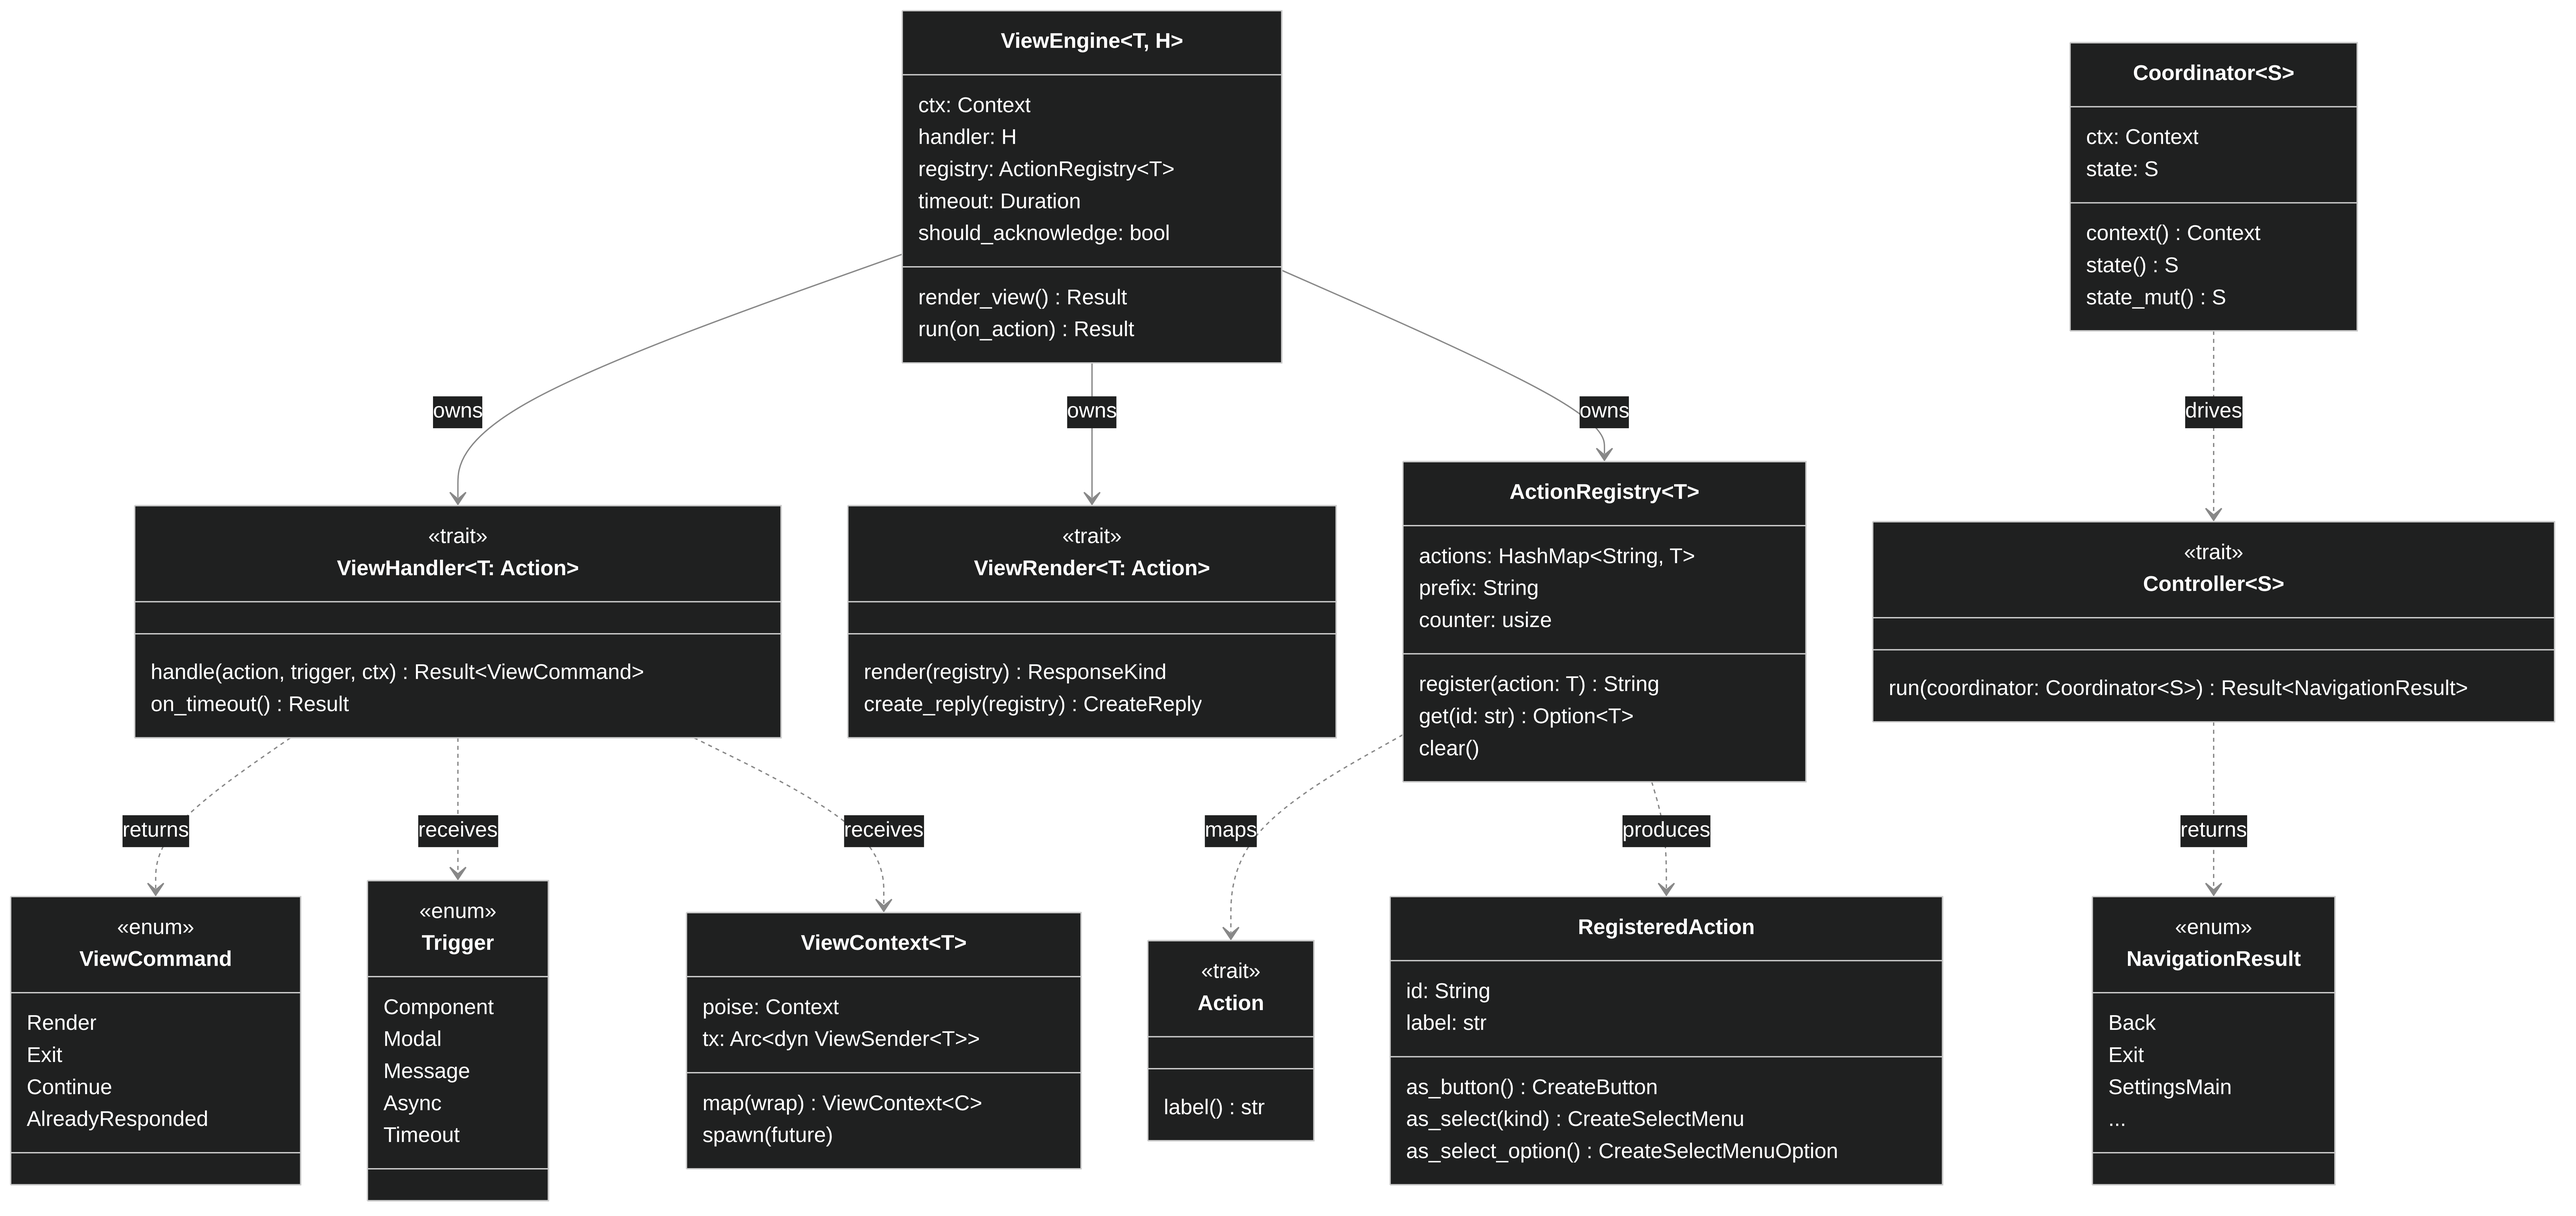
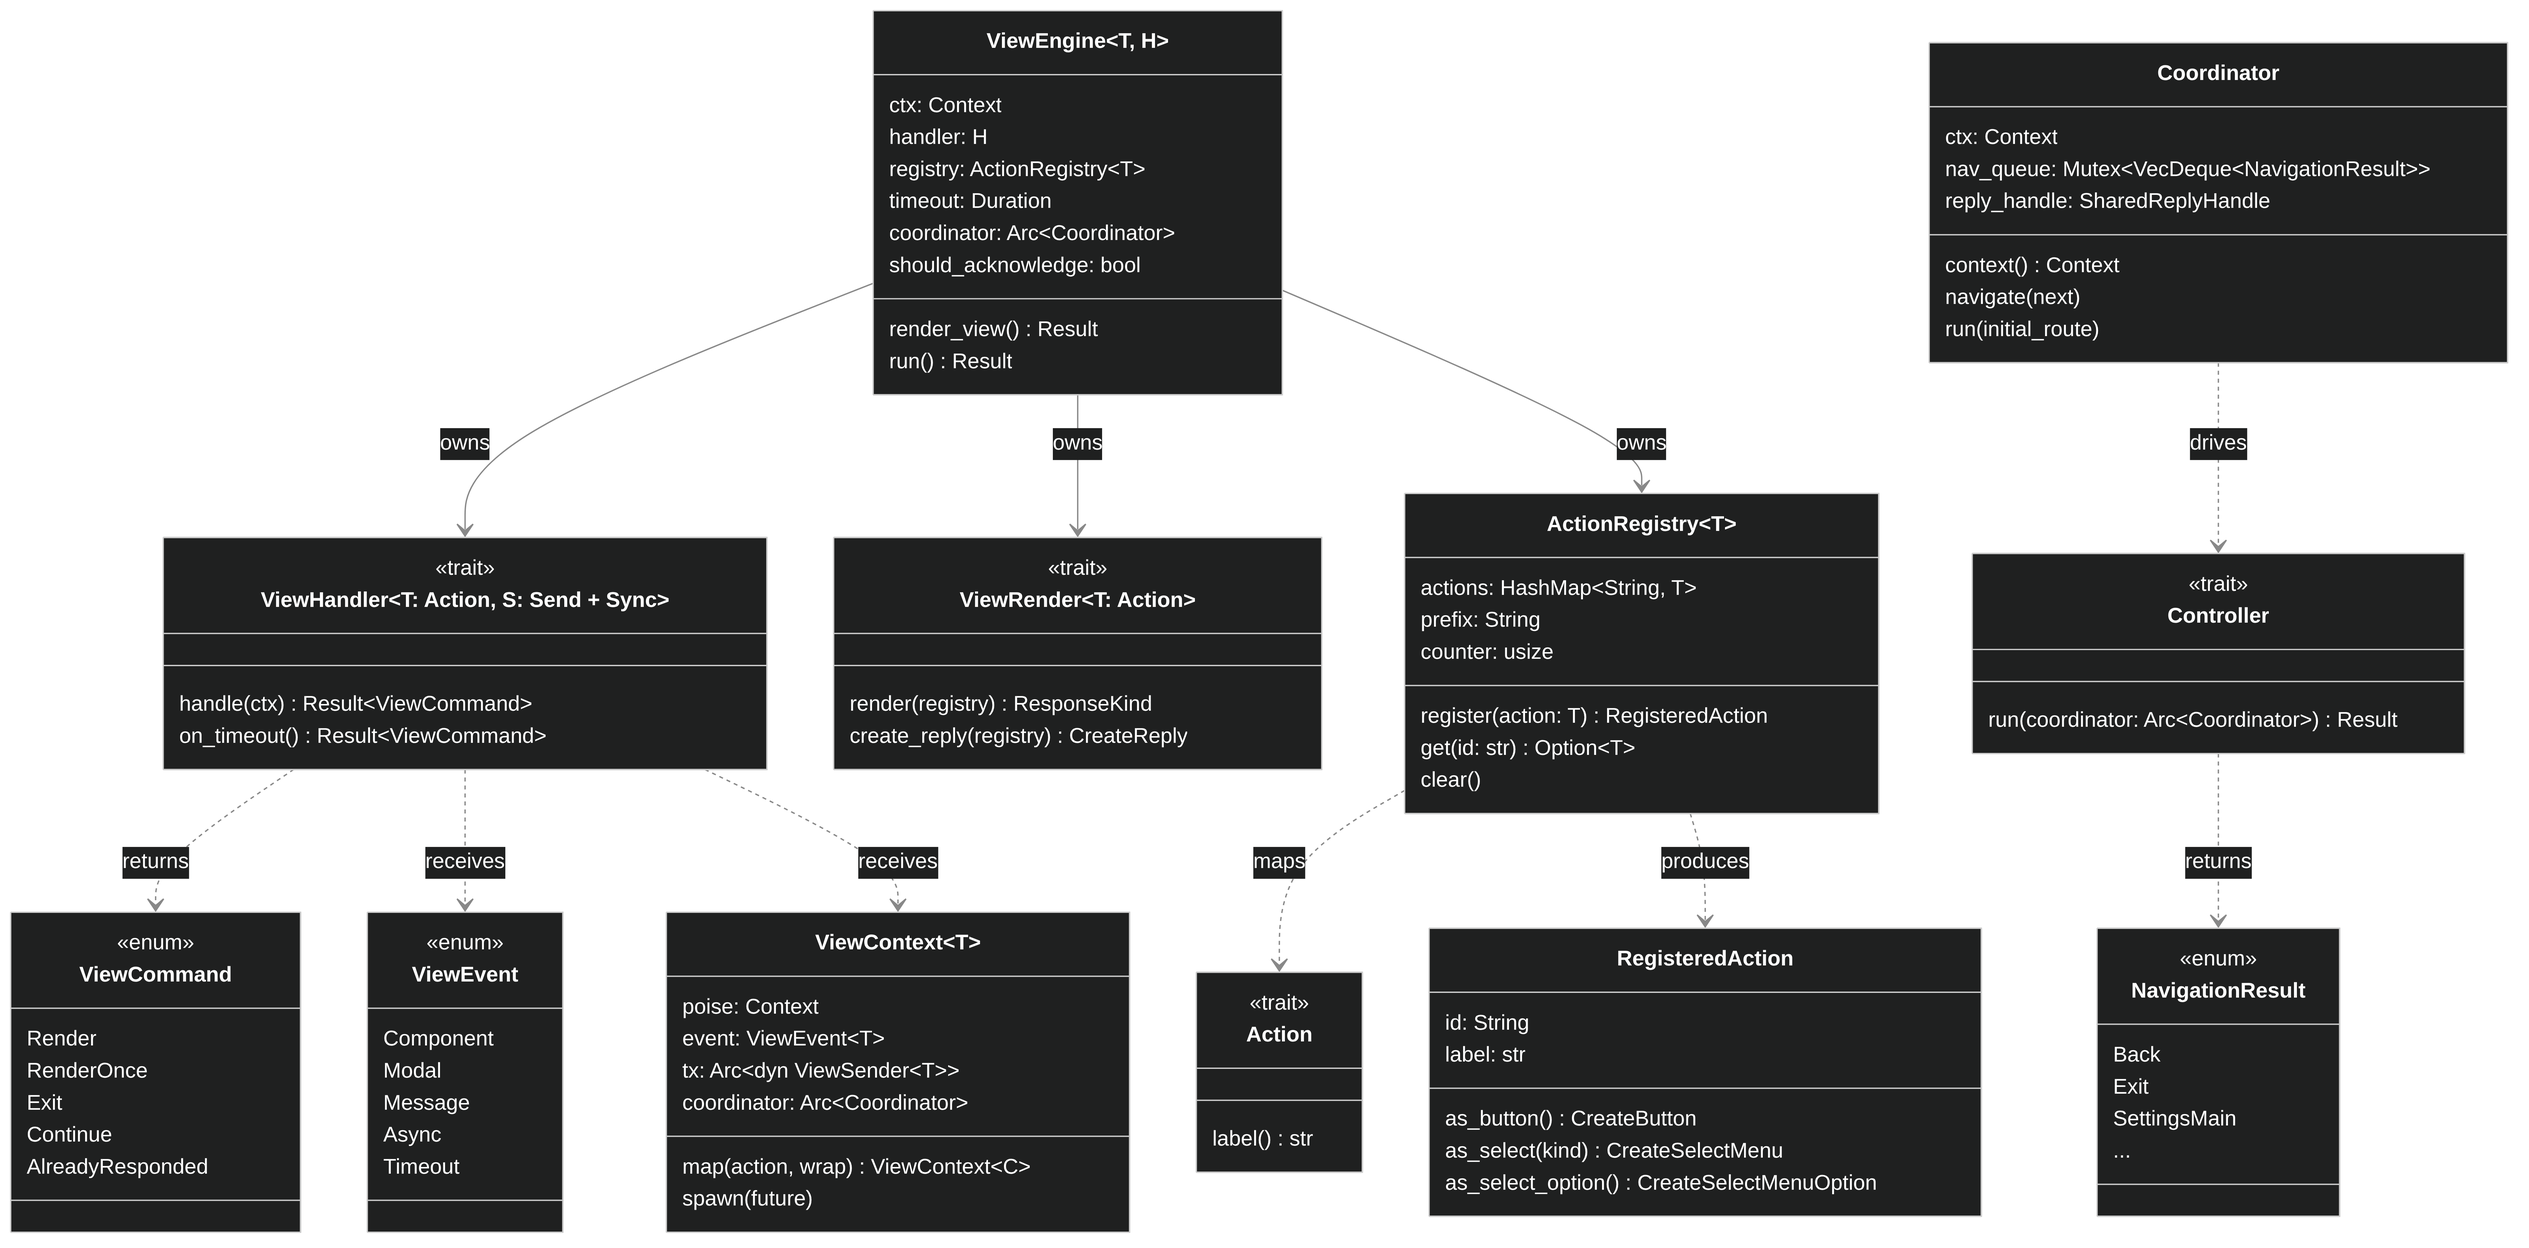
docs: Update dev docs [skip ci]

diff --git a/docs/architecture.md b/docs/architecture.md
@@ -46,8 +46,8 @@ Commands are organized by domain. Each top-level module is a command group; subc
 
 Interactive commands follow a **Coordinator → Controller → View** flow:
 
-- **`Coordinator<S>`** — receives the Poise context, owns navigation state, drives controllers.
-- **`Controller<S>`** — fetches data via services, constructs views, mediates between view actions and service calls, returns `NavigationResult`.
+- **`Coordinator`** — receives the Poise context, owns navigation state, drives controllers.
+- **`Controller`** — fetches data via services, constructs views, mediates between view actions and service calls.
 - **`NavigationResult`** — enum signalling the next navigation step (e.g. `Back`, `Exit`, `SettingsMain`).
 - **`ViewEngine`** — the event loop runner that drives the view life cycle.
 
@@ -59,28 +59,29 @@ The view system is built on a trait-based architecture driven by the **ViewEngin
 |-----------|---------------|
 | `Action` | Trait for enums representing user actions (buttons, select menus). |
 | `ViewRender<T>` | Trait defining how to translate state into Discord UI components. |
-| `ViewHandler<T>` | Trait for business logic and state mutations in response to actions. |
+| `ViewHandler<T, S>` | Trait for business logic and state mutations in response to actions. `S` is optional shared state (default `()`). |
 | `ViewEngine<T, H>` | The event loop runner that multiplexes interactions, async events, and timeouts. |
-| `ViewContext<T>` | Context passed to handlers, allowing for async task spawning and child view mapping. |
+| `ViewContext<T>` | Context passed to handlers, containing the event, action, sender, and coordinator. |
 
 #### View Lifecycle
 
-1. **Initialization**: `ViewEngine::new(ctx, handler, timeout)` is created with a handler that implements both `ViewRender` and `ViewHandler`.
-2. **Rendering**: The engine calls `handler.render(&mut registry)` to build the Discord message. The `ActionRegistry` maps Discord `custom_id`s to `Action` variants.
+1. **Initialization**: `ViewEngine::new(ctx, handler, timeout, coordinator)` is created with a handler that implements `ViewRender` and `ViewHandler`.
+2. **Rendering**: The engine calls `handler.render(&mut registry)` to build the Discord message. The `ActionRegistry::register` method returns a `RegisteredAction` which provides helper methods like `.as_button()` or `.as_select()` to create Discord components.
 3. **Event Loop**: `ViewEngine::run()` starts a `tokio::select!` loop listening for:
    - **Component Interactions**: Matches `custom_id` back to an `Action`.
    - **Async Events**: Dispatched via `ctx.spawn()` or `ctx.tx.send()`.
-   - **Modals/Messages**: Can be integrated into the same event stream.
+   - **Modals/Messages**: Can be integrated into the same event stream via `ViewEvent`.
    - **Timeouts**: Triggers `on_timeout()` on the handler.
 4. **Command Processing**: Handlers return a `ViewCommand` to control the loop:
    - `Render`: Re-renders the view and updates the message.
+   - `RenderOnce`: Renders once and exits immediately (useful for intermediate states).
    - `Continue`: Continues the loop without re-rendering.
    - `Exit`: Breaks the loop.
    - `AlreadyResponded`: Prevents auto-acknowledgment (essential for opening modals).
 
 #### Delegation Pattern
 
-Child views are integrated using `ctx.map(ParentAction::Child)`. This creates a sub-context that wraps child actions into parent actions, allowing child views to be handled independently within a parent's `handle` method. This allows composition without the parent needing to know the child's internal state or action structure.
+Child views are integrated using `ctx.map(child_action, ParentAction::Child)`. This creates a sub-context that wraps child actions into parent actions, allowing child views to be handled independently within a parent's `handle` method. This allows composition without the parent needing to know the child's internal state or action structure.
 
 ---
 
@@ -186,18 +187,19 @@ Each table struct is responsible for CRUD operations on its domain area.
 Discord interaction
   → Poise routes to command entry function
   → Coordinator::new(ctx)
-  → Controller::run(coordinator)
-      → Service::fetch(...)          fetch required data
-      → ViewHandler::new(...)        construct handler state
-      → ViewEngine::run(...)         start event loop (tokio::select!)
-          → ViewRender::render()     build Discord components
-          → [Event Loop]
-              → Discord interaction / Async event / Modal
-              → ViewHandler::handle()     process action → state mutation
-              → ViewCommand::Render       re-render view
-          → ViewCommand::Exit
-      → NavigationResult
-  → Coordinator routes to next Controller or exits
+  → Coordinator::run(initial_route)   starts navigation loop
+      → Controller::run(coordinator)
+          → Service::fetch(...)          fetch required data
+          → ViewHandler::new(...)        construct handler state
+          → ViewEngine::run(...)         start event loop (tokio::select!)
+              → ViewRender::render()     build Discord components
+              → [Event Loop]
+                  → Discord interaction / Async event / Modal
+                  → ViewHandler::handle(ctx)  process action → state mutation
+                  → ViewCommand::Render       re-render view
+              → ViewCommand::Exit
+          → coordinator.navigate(next)   signal next navigation step
+      → Coordinator routes to next Controller or exits
 ```
 
 ### Background Feed Update

diff --git a/.opencode/skills/ui-views/SKILL.md b/.opencode/skills/ui-views/SKILL.md
@@ -72,18 +72,13 @@ impl ViewRender<MyAction> for MyHandler {
 ```
 
 ### 4. Implement `ViewHandler`
-Process actions and return a `ViewCommand`.
+Process actions and return a `ViewCommand`. The `ViewContext` provides access to the action, the event that triggered it, a sender for async tasks, and the coordinator.
 
 ```rust
 #[async_trait::async_trait]
 impl ViewHandler<MyAction> for MyHandler {
-    async fn handle(
-        &mut self,
-        action: MyAction,
-        trigger: Trigger<'_>,
-        ctx: &ViewContext<'_, MyAction>,
-    ) -> Result<ViewCommand, Error> {
-        match action {
+    async fn handle(&mut self, ctx: ViewContext<'_, MyAction>) -> Result<ViewCommand, Error> {
+        match ctx.action() {
             MyAction::Click => {
                 self.count += 1;
                 Ok(ViewCommand::Render)
@@ -95,17 +90,15 @@ impl ViewHandler<MyAction> for MyHandler {
 ```
 
 ### 5. Run the View
-Use `ViewEngine` in your controller or command.
+Use `ViewEngine` in your controller.
 
 ```rust
-pub async fn run_my_view(ctx: &Context<'_>) -> Result<(), Error> {
+pub async fn run_my_view(coordinator: Arc<Coordinator<'_>>) -> Result<(), Error> {
     let handler = MyHandler { count: 0 };
-    let mut engine = ViewEngine::new(ctx, handler, Duration::from_secs(60));
+    let ctx = *coordinator.context();
+    let mut engine = ViewEngine::new(ctx, handler, Duration::from_secs(60), coordinator.clone());
     
-    engine.run(|action| Box::pin(async move {
-        // Optional callback for parent coordination
-        ViewCommand::Continue
-    })).await
+    engine.run().await
 }
 ```
 
@@ -125,8 +118,8 @@ ctx.spawn(async move {
 To open a modal, return `ViewCommand::AlreadyResponded` to prevent the engine from auto-acknowledging the interaction.
 
 ```rust
-if let Trigger::Component(i) = trigger {
-    i.create_response(ctx.poise.http(), CreateInteractionResponse::Modal(my_modal)).await?;
+if let ViewEvent::Component(_, interaction) = &ctx.event {
+    interaction.create_response(ctx.poise.http(), CreateInteractionResponse::Modal(my_modal)).await?;
     return Ok(ViewCommand::AlreadyResponded);
 }
 ```
@@ -136,7 +129,7 @@ Map child actions to parent actions using `ctx.map`.
 
 ```rust
 // In ParentHandler::handle
-if let ParentAction::Pagination(child_action) = action {
-    return self.pagination_view.handle(child_action, trigger, &ctx.map(ParentAction::Pagination)).await;
+if let ParentAction::Pagination(child_action) = ctx.action() {
+    return self.pagination_view.handle(ctx.map(*child_action, ParentAction::Pagination)).await;
 }
 ```
